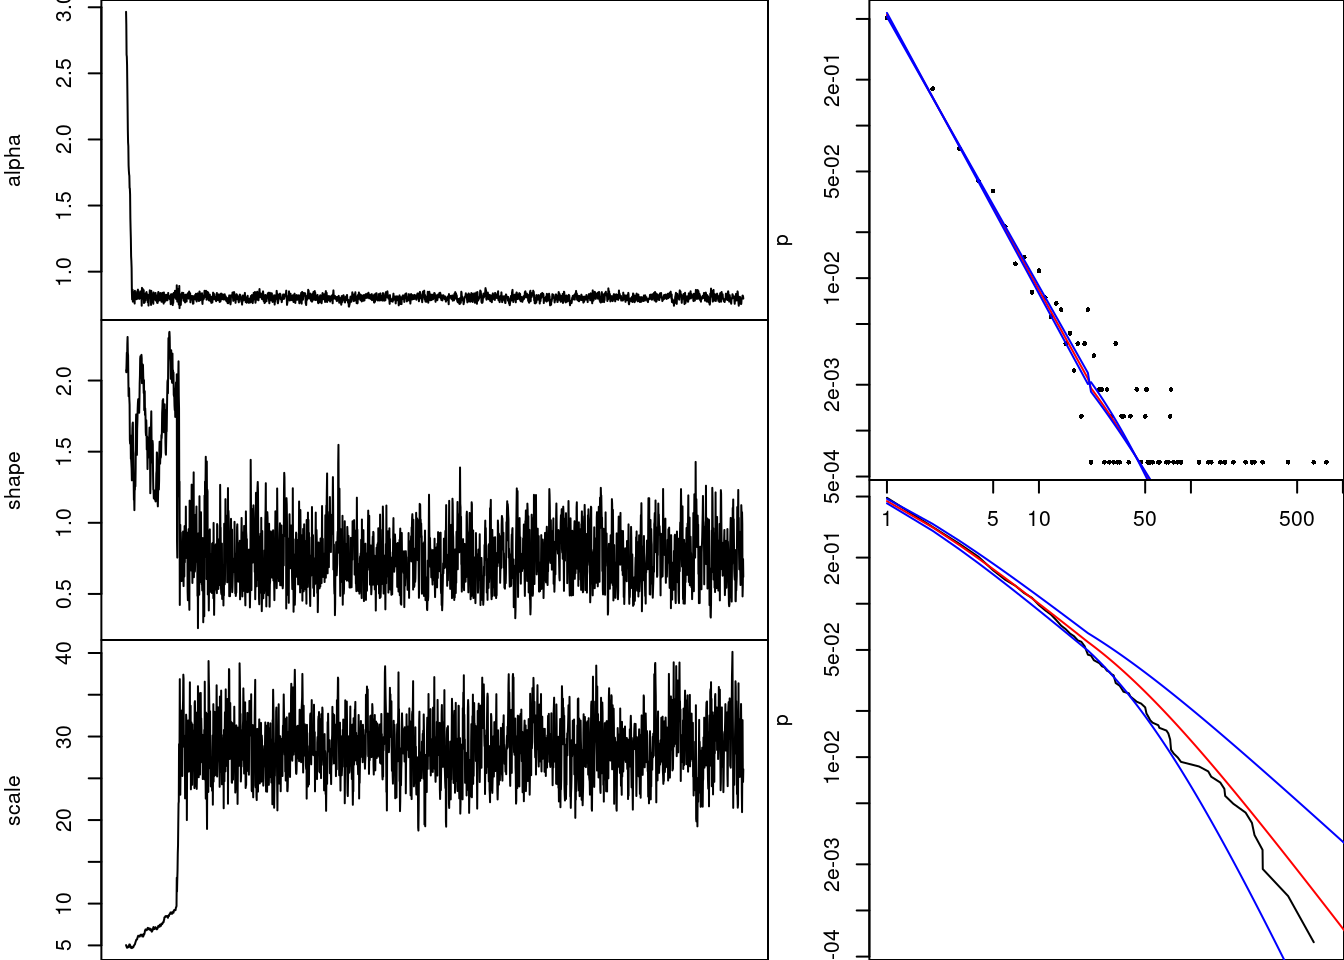
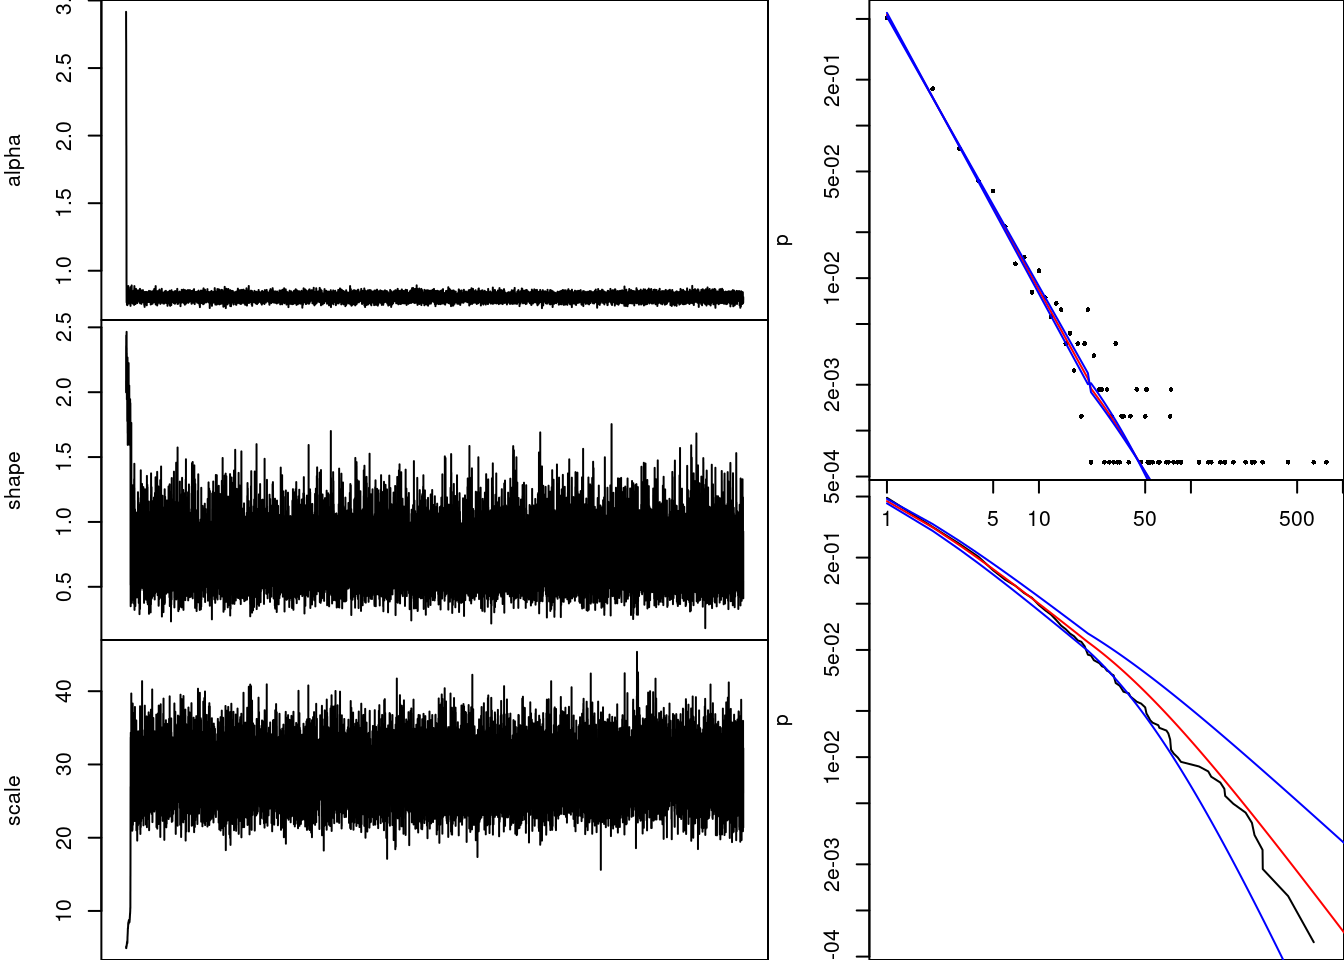
Ran MCMC for 100,000 iterations at each section

diff --git a/quarto/CRAN.html b/quarto/CRAN.html
@@ -299,7 +299,7 @@ L(x) = \zeta(\alpha+1)^{-n}C_{\alpha,u}^{N-n}\prod_{i:x_i\leq u}x_i^{-(\alpha+1)
 <section id="plots-of-fitted-model" class="level2">
 <h2 class="anchored" data-anchor-id="plots-of-fitted-model">Plots of fitted model</h2>
 <div class="cell">
-<div class="sourceCode cell-code" id="cb1"><pre class="sourceCode r code-with-copy"><code class="sourceCode r"><span id="cb1-1"><a href="#cb1-1" aria-hidden="true" tabindex="-1"></a>n.iter<span class="ot">=</span><span class="fl">1e4</span></span></code><button title="Copy to Clipboard" class="code-copy-button"><i class="bi"></i></button></pre></div>
+<div class="sourceCode cell-code" id="cb1"><pre class="sourceCode r code-with-copy"><code class="sourceCode r"><span id="cb1-1"><a href="#cb1-1" aria-hidden="true" tabindex="-1"></a>n.iter<span class="ot">=</span><span class="fl">1e5</span></span></code><button title="Copy to Clipboard" class="code-copy-button"><i class="bi"></i></button></pre></div>
 </div>
 <section id="depends-data-1" class="level3">
 <h3 class="anchored" data-anchor-id="depends-data-1">Depends data</h3>
